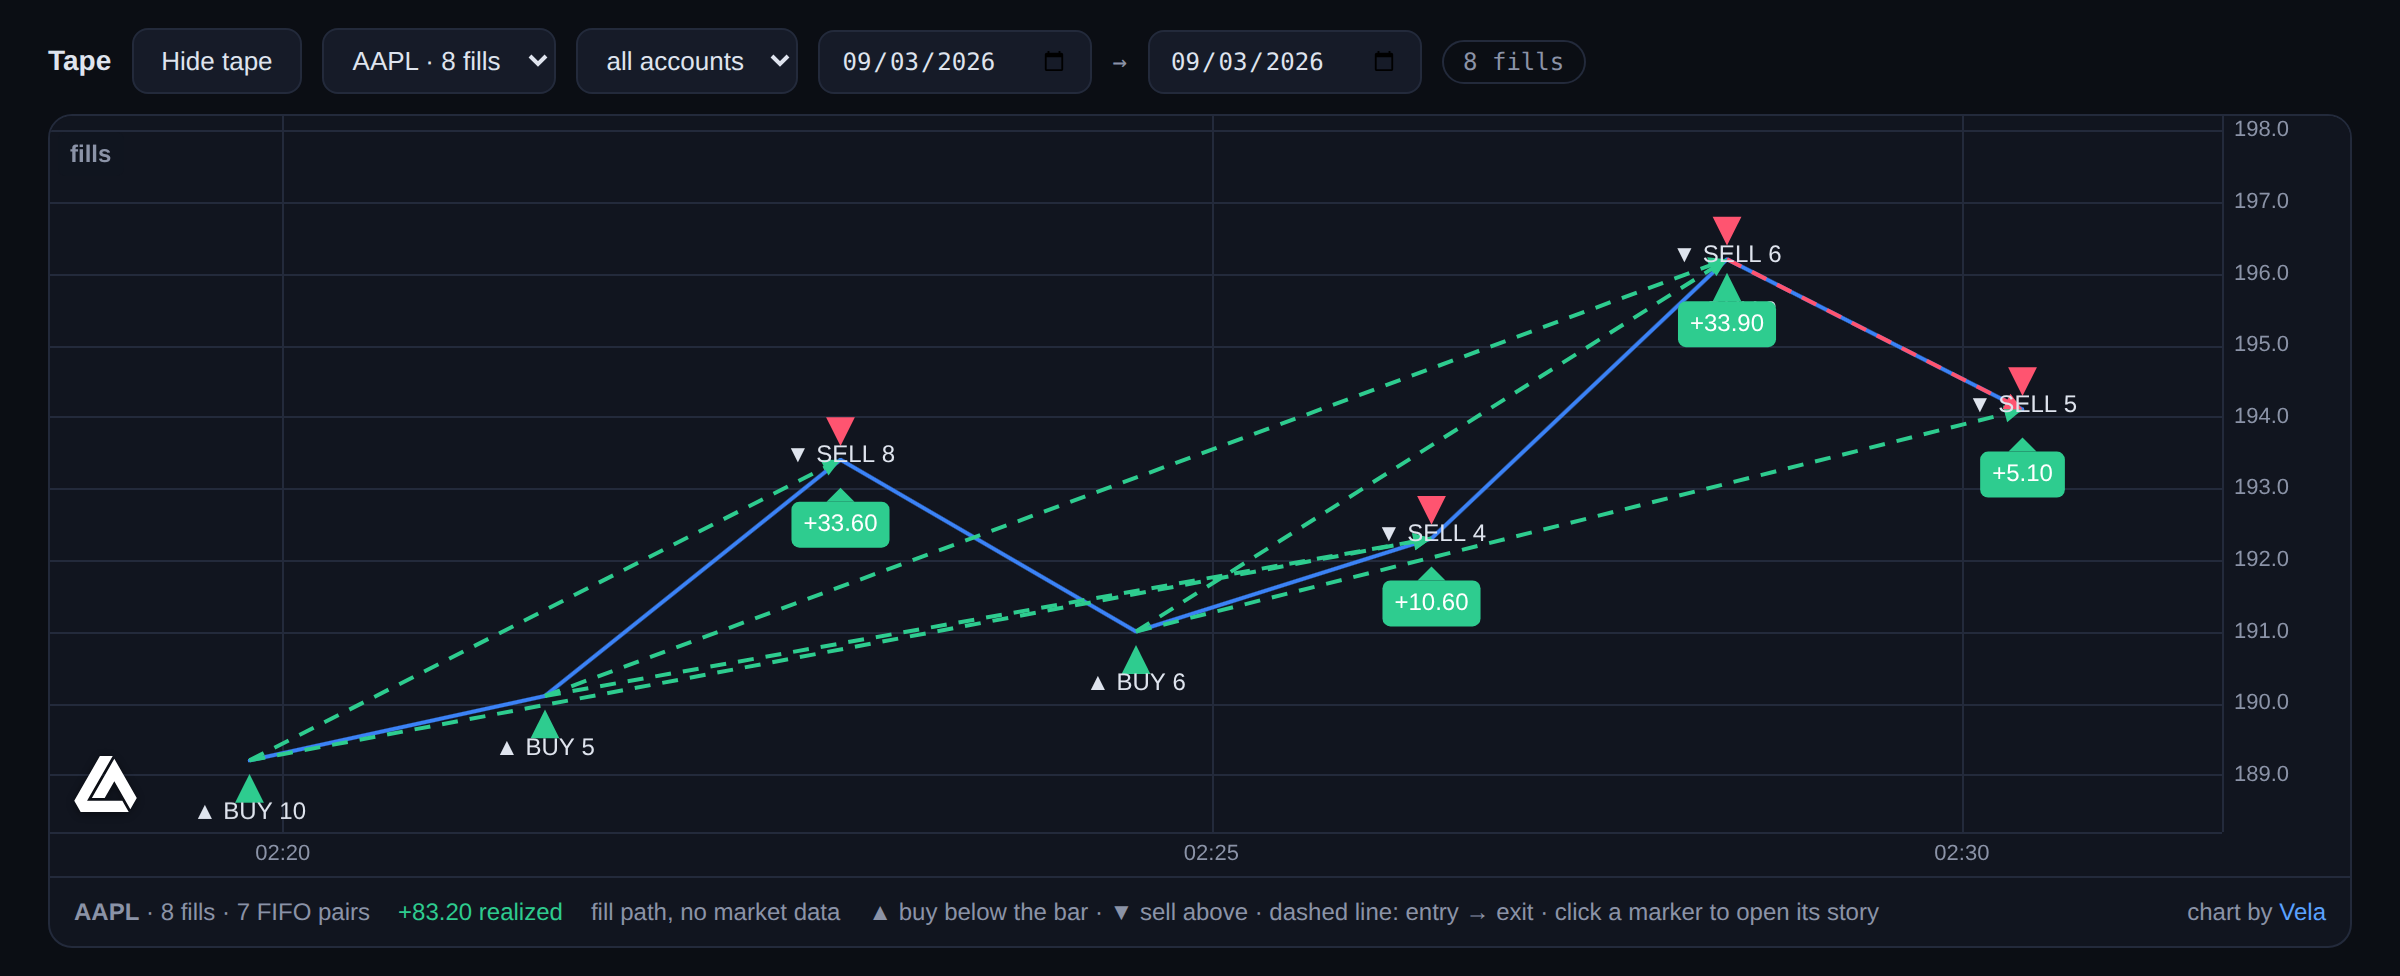
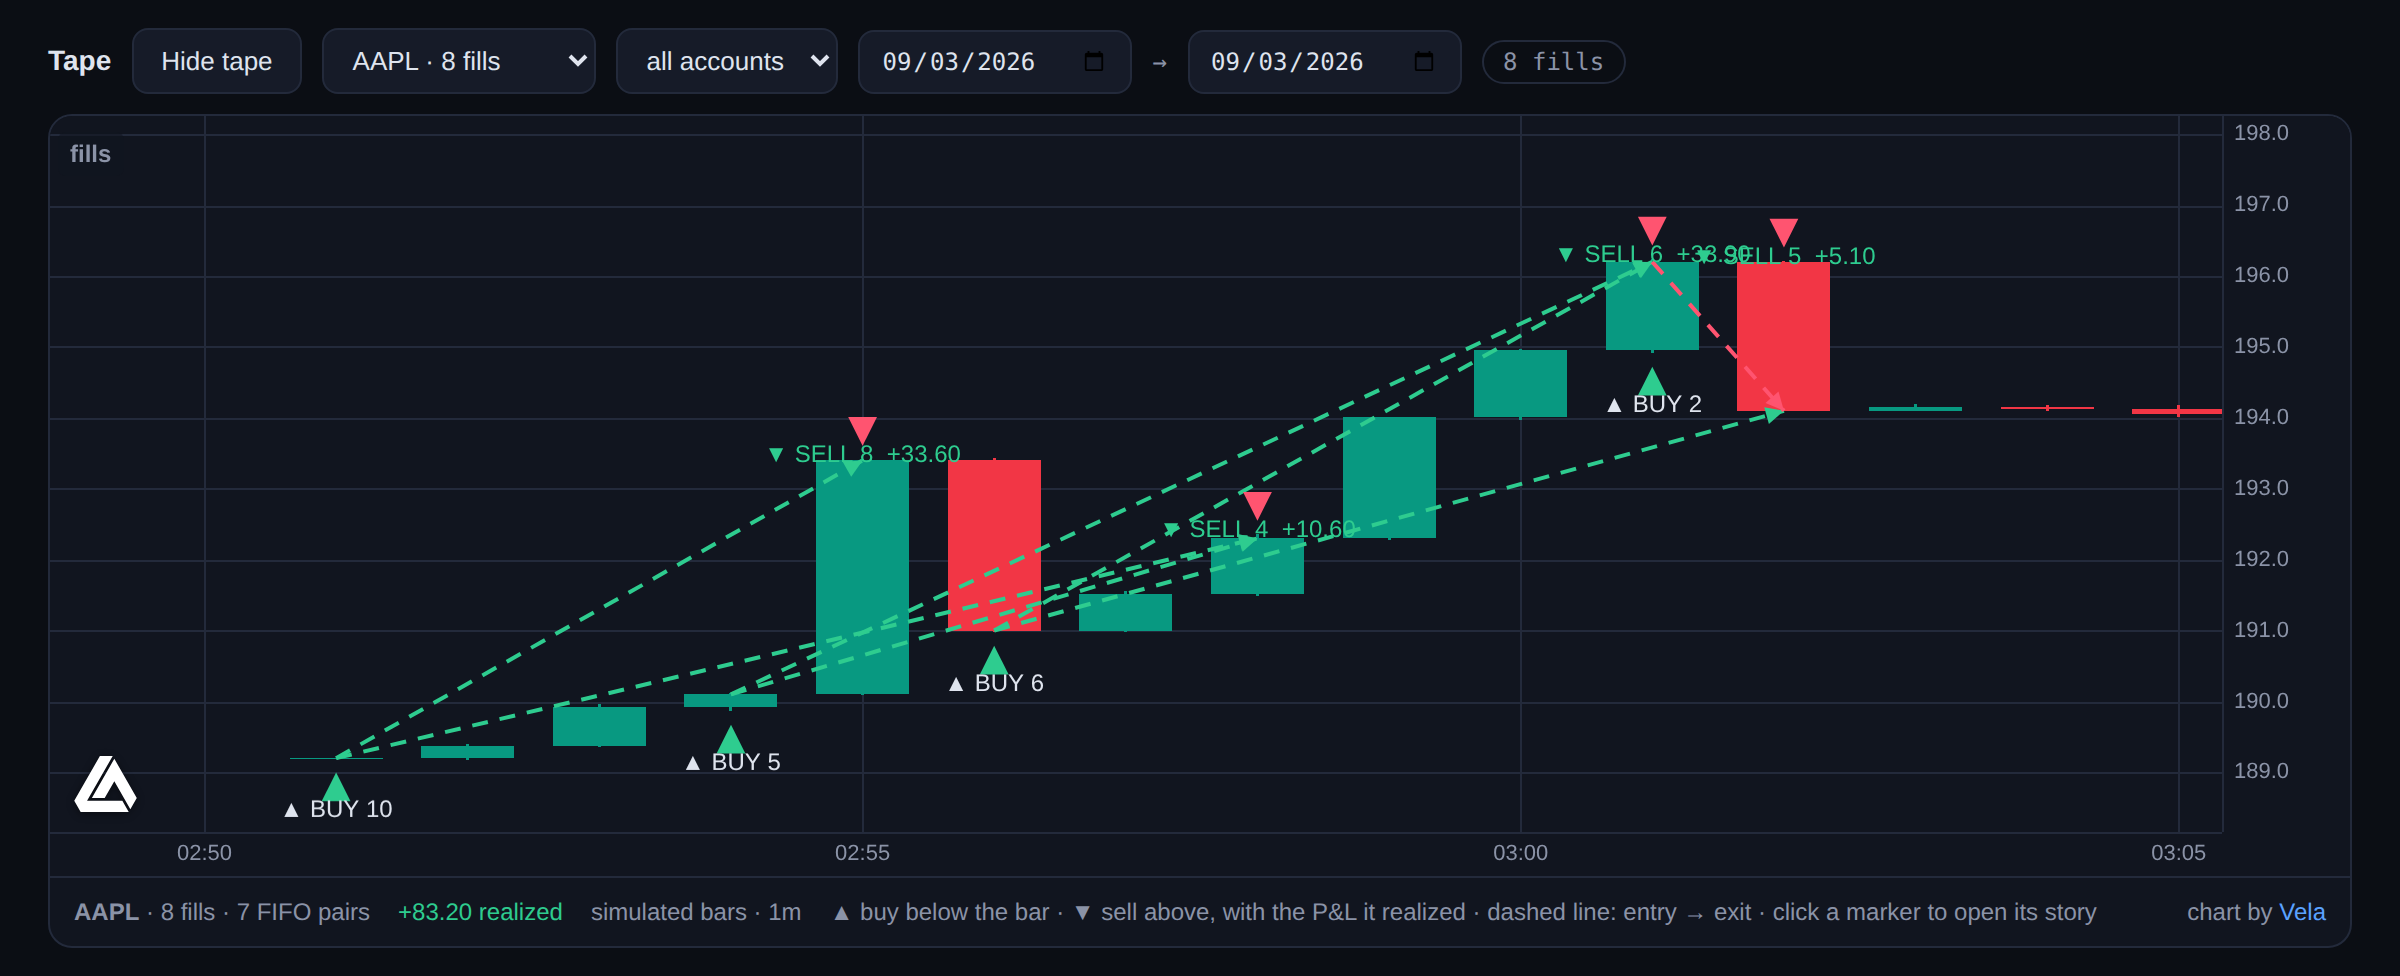
Docs: the tape shows candles
The README section now says where the candles come from, in the order
the panel tries them: the simulator's own simulated bars (what the
screenshot shows — re-captured from the running simulator, candles and
all), real bars from Alpaca and Tradier through broker-sdk once the SDK
release with fetchBars lands, public candles for crypto pairs from Vela's
keyless providers in the browser, and the fill path otherwise. The
changelog, architecture notes and contributing rules follow: bars come
from the port, never from relay code, and the crypto candles are the one
labelled exception to the dashboard's no-outside-requests rule.

Claude-Session: https://claude.ai/code/session_01DQE5MdN51MXNXV15pZ9k5N

diff --git a/README.md b/README.md
@@ -55,11 +55,18 @@ Running from a clone instead: `pnpm install && pnpm build`, then `node dist/cli.
 The same stories, read as a chart. The dashboard's **Tape** panel picks a symbol from the fills the flight recorder holds and draws where Trade Relay's orders actually filled: a green triangle below the bar for every buy, a red one above it for every sell, each with its size, and a dashed line from entry to exit with the realized P&L wherever the FIFO matching can pair them (the same rules as the stats cards, from broker-sdk: buys open lots, sells close the oldest first, a sell with no recorded entry stays an unpaired marker). Click a marker and the signal's story opens in the table below, so a fill on the chart is always one click from its payload, its risk decisions, and the broker's answer.
 
 <p align="center">
-  <img src="docs/assets/tape.png" alt="The Tape panel: the simulator's fills for AAPL on a Vela chart, buys marked below the bars and sells above, dashed entry-to-exit lines carrying the realized P&L" width="100%"/>
-  <br><sub>The built-in simulator, a few signals fired through the webhook. No market data was involved: the line is the fill path.</sub>
+  <img src="docs/assets/tape.png" alt="The Tape panel: the simulator's fills for AAPL on a Vela candlestick chart, buys marked below the bars and sells above, dashed entry-to-exit lines carrying the realized P&L" width="100%"/>
+  <br><sub>The built-in simulator, a few signals fired through the webhook. The candles are the simulator's <b>simulated bars</b>, drawn from the prices those signals carried; no market data was involved.</sub>
 </p>
 
-Bars come from the broker when the account's port can provide them, and the panel says which source they came from. No port can today, so the chart draws the **fill path** instead, the fills themselves as the price series, labelled "fill path, no market data". The relay never fabricates a candle it did not see; when a broker grows a bar feed upstream, the same payload (`bars`, `barsSource`) carries it and the client needs no change. The chart is drawn in the browser by [Vela](https://github.com/LuxAlgo/Vela), LuxAlgo's open-source charting library, shipped inside this package and served from your relay's own origin: nothing is fetched from a CDN, and the script only loads when you open the panel. The data behind it is one Bearer-protected call, `GET /api/tape/:symbol?from=&to=`.
+Where the candles come from, and the panel always says which:
+
+- **Simulator** — the simulator is the price process behind every simulated fill, so it draws its own one-minute bars: they start at the first signal's price, hit every price a signal carried at the moment it arrived, and follow a seeded walk in between. Deterministic, and labelled *simulated bars*.
+- **Real brokers** — bars come through [`@luxalgo/broker-sdk`](https://github.com/LuxAlgo/broker-sdk), never from broker code in this repo. The port picks up the SDK's `fetchBars` (Alpaca and Tradier) the moment an SDK release ships it; until then those accounts have no bars and the panel says so.
+- **Crypto pairs** — when the server has no bars, the browser may chart real public candles from Vela's bundled keyless Binance or Coinbase providers, labelled *Binance public data* and so on; if the feed is unreachable, the chart falls back.
+- **Otherwise the fill path** — the fills themselves as the price series, labelled *fill path, no market data*. The relay never fabricates a candle it did not see.
+
+The chart is drawn in the browser by [Vela](https://github.com/LuxAlgo/Vela), LuxAlgo's open-source charting library, shipped inside this package and served from your relay's own origin: nothing is fetched from a CDN, and the script only loads when you open the panel. The data behind it is one Bearer-protected call, `GET /api/tape/:symbol?from=&to=`, whose `bars`, `barsSource` and `barsTimeframe` fields carry whichever source applied.
 
 ## The rails are the product
 

diff --git a/docs/architecture.md b/docs/architecture.md
@@ -26,7 +26,8 @@ TradingView / Zapier / curl / MCP agent
 - **All broker connectivity lives upstream in [`@luxalgo/broker-sdk`](https://github.com/LuxAlgo/broker-sdk).** trade-relay never speaks a broker's REST dialect. The `BrokerPort` seam has two implementations: the SDK port (real accounts — Alpaca paper today, growing with the SDK's write layer) and the simulator (the full order vocabulary: stops, stop-limits, trailing stops, OCO brackets). What the SDK can't express is refused with a pointer to [the upstream proposal](broker-sdk-proposal.md) — never emulated against a real account.
 - **The engine is pure-ish and injectable.** Risk evaluation is a pure function of explicit inputs; the engine takes storage/ports/notifier/clock as dependencies. That's why the whole pipeline — including brackets triggering on later prices — runs in unit tests with zero network.
 - **Bad signals are data, not exceptions.** Parse failures, rule rejections, and broker errors all end as recorded stories with reasons, not 500s and log lines.
-- **Zero runtime dependencies beyond four:** `@luxalgo/broker-sdk`, `@modelcontextprotocol/sdk`, `zod`, and `@luxalgo/vela` for the dashboard's chart. HTTP is `node:http`, storage is `node:sqlite`, the dashboard is one server-rendered page with no build step, no CDN, no external requests — Vela's browser bundle is copied into `dist/` at build time and served from the relay's own origin, only when the Tape panel is opened.
+- **Zero runtime dependencies beyond four:** `@luxalgo/broker-sdk`, `@modelcontextprotocol/sdk`, `zod`, and `@luxalgo/vela` for the dashboard's chart. HTTP is `node:http`, storage is `node:sqlite`, the dashboard is one server-rendered page with no build step, no CDN, no external requests — Vela's browser bundle is copied into `dist/` at build time and served from the relay's own origin, only when the Tape panel is opened. The one deliberate exception: for a crypto pair whose account has no bars, the Tape may ask Vela's bundled keyless Binance/Coinbase providers for public candles — from the browser, labelled as such, and falling back to the fill path when unreachable.
+- **Bars for the tape come from the port, never from the relay.** The simulator draws its own deterministic bars from the prices its signals carried (it is the price process); real brokers get bars from `@luxalgo/broker-sdk` when a release ships `fetchBars` (detected at runtime); otherwise the tape says `bars: null` and charts the fill path.
 
 ## Source map
 
@@ -40,7 +41,8 @@ src/
   engine.ts       the pipeline; replay; kill/pause/flatten
   server.ts       webhook inlet · REST API · the bundled chart library (node:http)
   dashboard.ts    the flight-recorder UI (one HTML string) · the Tape panel
-  tape.ts         fills per symbol from the recorder · FIFO pairs · bars seam (pure)
+  tape.ts         fills per symbol from the recorder · FIFO pairs · bars from the port (pure)
+  brokers/simulated-bars.ts  the simulator's own 1m bars, anchored on the prices it saw (pure)
   vela-asset.ts   where the shipped Vela bundle lives
   mcp.ts          the agent surface
   notify.ts       discord/slack/telegram/webhook, fire-and-forget

diff --git a/CHANGELOG.md b/CHANGELOG.md
@@ -14,7 +14,7 @@ Initial public release.
 - Watch-only portfolio accounts over the broker-sdk read layer
 - Flight recorder on node:sqlite with a local dashboard and one-click replay
 - Per-account trade stats (realized PnL, win rate, closed round trips) on the dashboard cards, REST API, and MCP, computed by broker-sdk's stats engine
-- Fills on the tape: a dashboard Tape panel that charts where each symbol's orders filled (buy and sell markers with sizes, dashed entry-to-exit lines with realized P&L from FIFO pairs, click-through to the signal's story), drawn by Vela (@luxalgo/vela, Apache-2.0) and backed by `GET /api/tape` and `GET /api/tape/:symbol`. Bars come from the broker port when one can provide them, otherwise the chart draws the fill path only; nothing is fabricated. Vela's bundle ships inside the package and is served from the relay's own origin at `GET /vela.global.min.js`, loaded only when the panel is opened
+- Fills on the tape: a dashboard Tape panel that charts where each symbol's orders filled (buy and sell markers with sizes, dashed entry-to-exit lines with realized P&L from FIFO pairs, click-through to the signal's story), drawn by Vela (@luxalgo/vela, Apache-2.0) and backed by `GET /api/tape` and `GET /api/tape/:symbol`. Candles come from the account's port through the optional `BrokerPort.getBars` seam: the simulator draws its own deterministic one-minute bars from the prices the signals carried (`barsSource: "simulator"`), real brokers get bars from broker-sdk's `fetchBars` once an SDK release ships it (detected at runtime; `barsSource` is the broker id), crypto pairs may chart public candles from Vela's bundled keyless providers in the browser, and otherwise the chart draws the fill path only; nothing is fabricated. Vela's bundle ships inside the package and is served from the relay's own origin at `GET /vela.global.min.js`, loaded only when the panel is opened
 - MCP server for AI agents: read-only by default, trading gated behind mcp.allowTrading, all agent orders pass the same risk rails
 - Scoped agent token for hosted agents and integrations: a second revocable API key, read-only by default with an explicit "trade" opt-in; any scope may turn the kill switch on, only trade scope may turn it off
 - Outbound notifications: Discord, Slack, Telegram, generic webhook

diff --git a/CONTRIBUTING.md b/CONTRIBUTING.md
@@ -17,7 +17,8 @@ Node ≥ 22.13 (we use `node:sqlite`). No other services needed: the whole pipel
 
 - **The rails philosophy is non-negotiable:** safety defaults ON; loosening is an explicit flag whose name says what it does; when a rule can't verify a limit it rejects (fail closed); exits stay privileged; nothing is emulated against a real account.
 - **Dependencies:** the runtime set is `@luxalgo/broker-sdk`, `@modelcontextprotocol/sdk`, `zod`, and `@luxalgo/vela` (the dashboard's chart, Apache-2.0 with a NOTICE we reproduce in `THIRD_PARTY_NOTICES.md`). Adding a fifth needs a very good story.
-- **The dashboard fetches nothing from outside.** Vela is copied into `dist/` at build time (`scripts/copy-vela.mjs`) and served from the relay's own origin; a `<script src="https://…">` in `dashboard.ts` is a bug.
+- **The dashboard fetches nothing from outside.** Vela is copied into `dist/` at build time (`scripts/copy-vela.mjs`) and served from the relay's own origin; a `<script src="https://…">` in `dashboard.ts` is a bug. The single exception is the Tape's public crypto candles (Vela's keyless Binance/Coinbase providers, browser-side, only for crypto pairs the server has no bars for, always labelled).
+- **Bars come from the port.** The simulator draws its own (`brokers/simulated-bars.ts`); real brokers get them from broker-sdk's `fetchBars`. Never synthesize bars for a real account in this repo.
 - **Files are kebab-case**, code is strict TypeScript, comments explain *why*, tests accompany behavior.
 - **Every branch of the pipeline must end in the flight recorder.** If your feature can fail silently, it isn't done.
 - **No telemetry.** Not even "anonymous usage stats". Don't ask.
